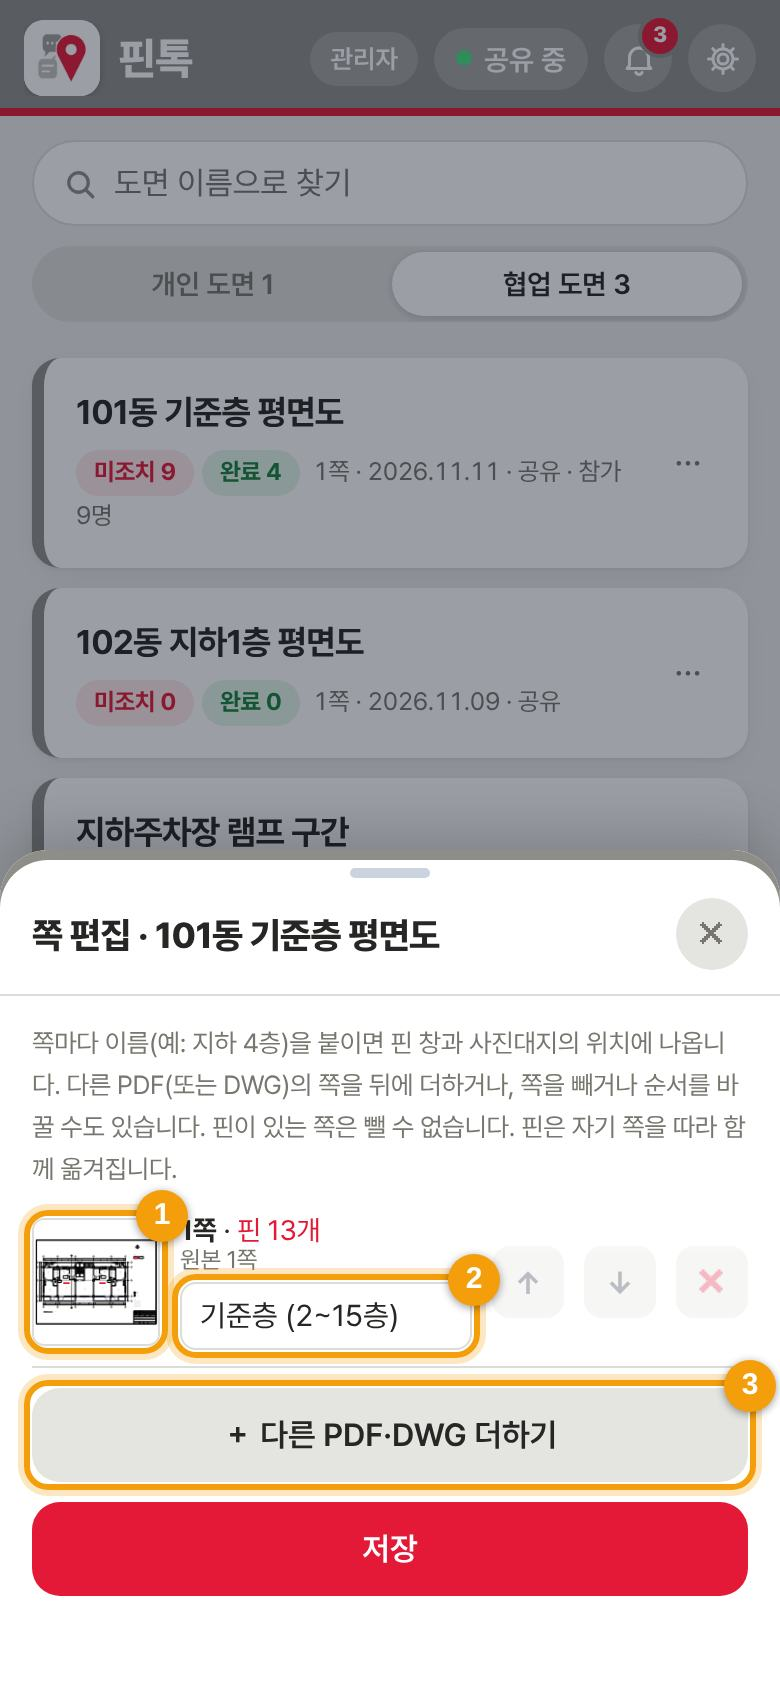
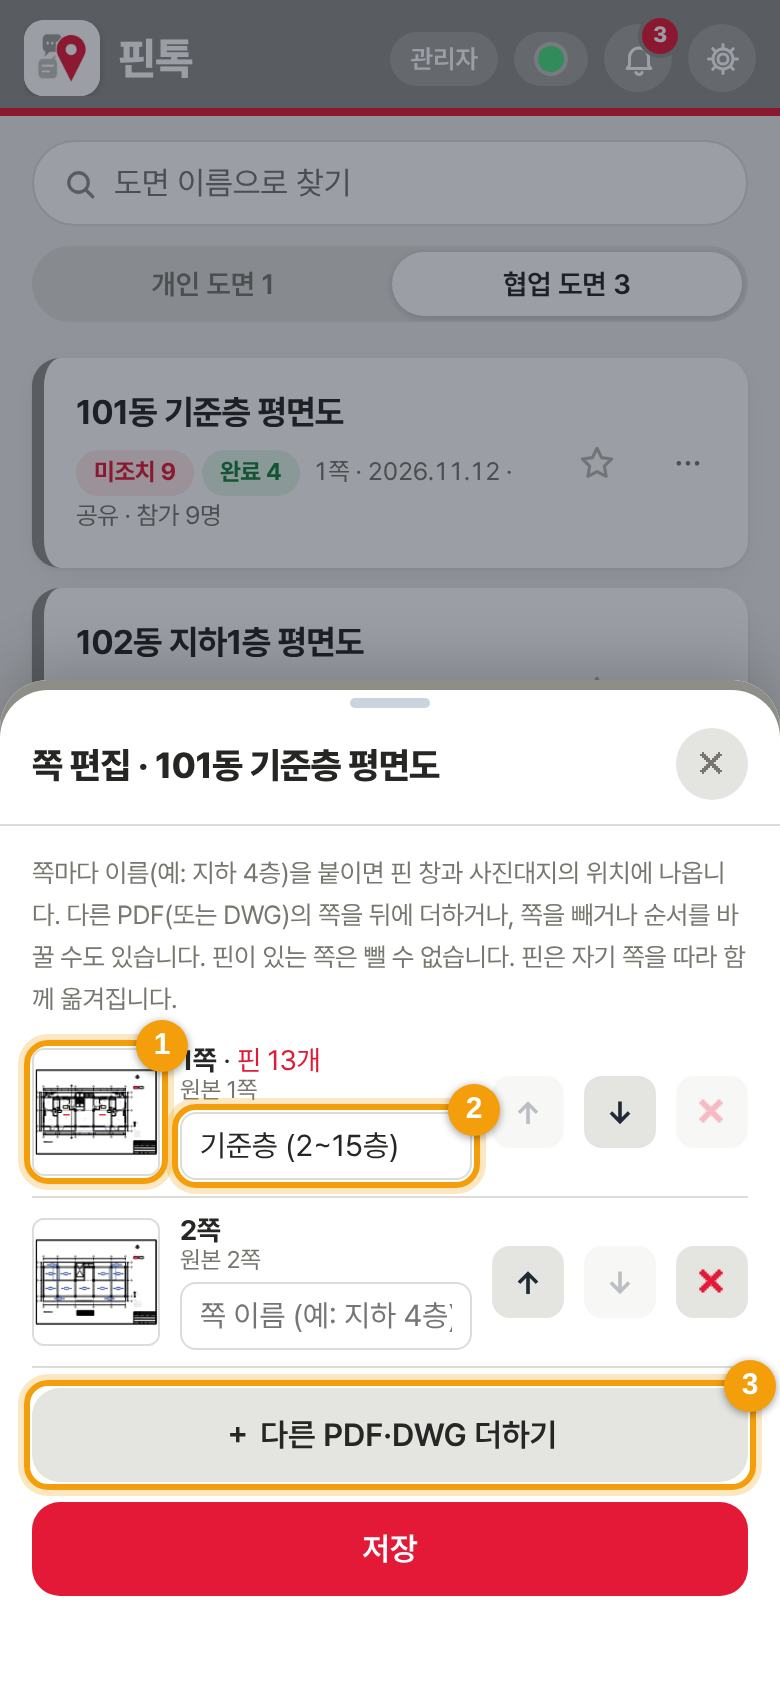
사용 가이드: 3.54~3.58 바뀐 점 반영, 화면 사진 새로 찍음
Claude-Session: https://claude.ai/code/session_01EtHbhsZCrxUT5zDHCagWW6

diff --git a/guide/index.html b/guide/index.html
@@ -132,10 +132,10 @@ footer{text-align:center;color:var(--sub);font-size:13px;padding:10px 16px 30px}
     <p><b>② 로그인</b></p>
     <ol class="marks">
       <li data-n="1"><b>이름</b>: 실명으로 넣어 주세요. 핀·댓글에 이 이름이 표시돼요.</li>
-      <li data-n="2"><b>비밀번호</b>: 4자 이상. 처음 로그인하면 넣은 비밀번호로 바로 등록돼요.</li>
+      <li data-n="2"><b>비밀번호</b>: 4자 이상. 처음 쓰는 사람은 아래 <b>회원가입</b>에서 이름·비밀번호(두 번)·팀을 넣고 가입해요.</li>
       <li data-n="3"><b>비밀번호 기억하기</b>를 켜 두면 다음부터 바로 열려요.</li>
     </ol>
-    <div class="note">휴대폰을 가로로 눕히면 아이콘과 이름이 위쪽 가운데로 가고, 입력 칸은 화면 가운데에 그대로 있어요.</div>
+    <div class="note">인터넷이 안 될 때는 맨 아래 <b>오프라인으로 들어가기</b>를 누르면 휴대폰에 저장된 개인 도면과 핀을 바로 볼 수 있어요. 휴대폰을 가로로 눕히면 아이콘·이름과 입력 칸이 화면 가운데에 함께 놓여요.</div>
   </section>
 
   <section id="s4">
@@ -143,9 +143,9 @@ footer{text-align:center;color:var(--sub);font-size:13px;padding:10px 16px 30px}
     <div class="shots"><figure><img src="img/03-home.jpg" alt="도면 목록" loading="lazy"><figcaption>로그인한 뒤 첫 화면</figcaption></figure></div>
     <ol class="marks">
       <li data-n="1"><b>검색</b>: 도면 이름 일부만 넣어도 바로 찾아요.</li>
-      <li data-n="2"><b>개인 도면 / 협업 도면</b> 탭으로 나눠 봐요(14번 참고). 카드에는 미조치·완료 핀 수, 쪽 수, 올린 날짜, 참가자가 보여요.</li>
+      <li data-n="2"><b>개인 도면 / 협업 도면</b> 탭으로 나눠 봐요(14번 참고). 카드에는 미조치·완료 핀 수, 쪽 수, 올린 날짜, 참가자가 보여요. <b>☆</b>를 누르면 즐겨찾기가 되어 목록 맨 위에 고정돼요.</li>
       <li data-n="3"><b>⋯</b>: 도면 설정을 열어요(5번).</li>
-      <li data-n="4"><b>공유 중</b>: 서버 연결 상태예요. 누르면 자동 연결 링크 보내기와 로그아웃이 있어요.</li>
+      <li data-n="4"><b>연결 점</b>: 초록이면 서버와 연결됨, 빨강이면 끊김이에요. 누르면 자동 연결 링크 보내기와 로그아웃이 있어요.</li>
       <li data-n="5"><b>🔔 알림</b>: 빨간 숫자는 아직 안 읽은 알림이에요(13번).</li>
       <li data-n="6"><b>⚙ 설정</b>(15번).</li>
       <li data-n="7"><b>＋ 도면 불러오기</b>: 카톡·파일 앱에 받은 <b>PDF</b>나 캐드 <b>DWG</b>를 골라요. DWG는 휴대폰 안에서 PDF로 바꿔 넣어요.</li>
@@ -165,7 +165,7 @@ footer{text-align:center;color:var(--sub);font-size:13px;padding:10px 16px 30px}
         <ul class="plain">
           <li><b>공유하기</b>: 핀 표시 도면과 사진대지를 PDF로 만들어 보내요.</li>
           <li><b>도면 정보</b>: 올린 사람, 팀별 핀 수, 참가자, 최근 바뀐 핀.</li>
-          <li><b>이름 바꾸기 · 쪽 편집 · 도면 복사</b>(핀·사진까지 또는 도면만).</li>
+          <li><b>이름 바꾸기 · 쪽 편집 · 도면 복사</b>(핀·사진까지 또는 도면만). 협업 도면은 <b>올린 사람과 관리자만</b> 할 수 있어요.</li>
           <li><b>개인 도면으로 바꾸기 / 협업 도면으로 바꾸기</b>.</li>
           <li><b>협업 요청 보내기</b>, <b>비밀번호 걸기</b> (협업 도면, 올린 사람·관리자).</li>
           <li><b>삭제</b>: 협업 도면은 함께 쓰는 사람 모두에게서 지워지니 조심하세요.</li>
@@ -174,7 +174,7 @@ footer{text-align:center;color:var(--sub);font-size:13px;padding:10px 16px 30px}
     <p><b>쪽 편집</b></p>
     <ol class="marks">
       <li data-n="1"><b>작은 도면을 누르면 크게</b> 볼 수 있어요. 두 손가락으로 확대하고, ‹ › 로 다른 쪽을 넘겨 봐요.</li>
-      <li data-n="2"><b>쪽 이름</b>(예: 지하 4층)을 붙이면 도면 화면과 사진대지에 이 이름이 나와요.</li>
+      <li data-n="2"><b>쪽 이름</b>(예: 지하 4층)을 붙이면 도면 화면과 사진대지에 이 이름이 나와요. PDF에 미리 쪽 이름이 들어 있으면 불러올 때 저절로 채워져요.</li>
       <li data-n="3"><b>다른 PDF·DWG 더하기</b>로 쪽을 합치고, ↑ ↓ 로 순서를, ✕ 로 쪽을 빼요. 핀이 있는 쪽은 뺄 수 없어요.</li>
     </ol>
   </section>
@@ -190,7 +190,7 @@ footer{text-align:center;color:var(--sub);font-size:13px;padding:10px 16px 30px}
     <ol class="marks">
       <li data-n="1"><b>도면 이름(ⓘ)</b>: 누르면 도면 정보가 나와요.</li>
       <li data-n="2"><b>팀 · 업체 · 공종 줄</b>: 보고 싶은 핀만 골라 봐요.</li>
-      <li data-n="3"><b>▲ 탭</b>: 위로 밀면 거르기 줄이 접히고, 아래로 밀면 펼쳐져요. 도면을 넓게 보고 싶을 때 접으세요.</li>
+      <li data-n="3"><b>▲ 탭</b>: 위로 밀거나 한 번 누르면 거르기 줄이 접히고, 아래로 밀거나 다시 누르면 펼쳐져요. 아래 작은 독에 <b>보기 핀</b>(거른 전체)과 <b>이 쪽</b> 핀 수가 나와요.</li>
       <li data-n="4"><b>목록</b>: 찍은 핀과 댓글을 한눈에(11번).</li>
       <li data-n="5"><b>핀 버튼</b>: 핀을 찍고 고정하는 가운데 빨간 버튼(7번).</li>
       <li data-n="6"><b>내보내기</b>: 사진대지 PDF나 부분 캡처(12번).</li>
@@ -235,7 +235,7 @@ footer{text-align:center;color:var(--sub);font-size:13px;padding:10px 16px 30px}
       <li data-n="1"><b>업체</b>: 현장 업체 목록에서 고르거나 <b>직접 입력</b>. 모르면 <b>미분류</b>.</li>
       <li data-n="2"><b>공종</b>: 예) 골조, 방수, 전기. 한 번 쓴 공종은 목록에서 골라요.</li>
       <li data-n="3"><b>내용</b>: 이슈·하자·전달사항을 적어요.</li>
-      <li data-n="4"><b>사진(조치 전)</b>: ＋를 눌러 찍거나 앨범에서 골라요. 여러 장 넣을 수 있어요.</li>
+      <li data-n="4"><b>사진(조치 전)</b>: <b>촬영</b> 또는 <b>앨범</b>을 눌러 넣어요. 여러 장 넣을 수 있고, 찍은 날짜별로 묶여 보여요. 컴퓨터에서는 사진을 핀 창에 끌어다 놓거나 붙여넣기 해도 돼요(아이폰 HEIC 사진도 돼요).</li>
     </ol>
     <p><b>사진 크게 보기</b>: 두 손가락으로 벌리거나 두 번 누르면 확대, 옆으로 밀면 다음 사진이에요.</p>
     <ol class="marks">
@@ -282,6 +282,7 @@ footer{text-align:center;color:var(--sub);font-size:13px;padding:10px 16px 30px}
       <li data-n="3"><b>전체 · 미조치 · 조치완료</b>로 거르기.</li>
       <li data-n="4">업체·공종, 내용, 쪽, 등록일·등록자, 사진·댓글 수가 보여요. 누르면 도면에서 그 핀으로 이동해요.</li>
     </ol>
+    <div class="note">도면이 바뀌어 쪽이 새로 생겼으면 목록 아래 <b>핀을 다른 쪽으로 옮기기</b>로 일부 또는 전체 핀을 다른 쪽으로 옮겨요. 조치완료 핀도 목록에서는 팀 색 그대로에 ✓ 표시가 붙어요.</div>
   </section>
 
   <section id="s12">
@@ -296,8 +297,8 @@ footer{text-align:center;color:var(--sub);font-size:13px;padding:10px 16px 30px}
     </ol>
     <p><b>PDF 만들기</b></p>
     <ol class="marks">
-      <li data-n="1"><b>사진대지 양식</b>: <b>내부 관리 현황</b>은 맨 앞에 전체·팀별·업체별·공종별 미조치/완료와 조치율, 핀 목록 표가 들어가요. <b>협력업체 전달</b>은 업체별로 묶고 우리 쪽 등록자·팀은 빼요.</li>
-      <li data-n="2">넣을 <b>팀 · 업체 · 공종</b>, 넣을 사진(대표 사진만 / 사진 전부)을 골라요.</li>
+      <li data-n="1"><b>사진대지 양식</b>: <b>내부 관리 현황</b>(전체 현황표와 핀 목록), <b>하자조치요청서</b>(공사팀, 업체별로 묶음), <b>균열관리사진대지</b>(품질팀, 균열 관리 대장), <b>현장순회점검 보고서</b>(안전팀, 점검 개요·결재란·지적 사항). 팀을 하나만 고르면 그 팀 양식이 저절로 골라져요.</li>
+      <li data-n="2">넣을 <b>팀 · 업체 · 공종</b>은 도면 화면에서 골라 둔 그대로 시작해요. <b>기간</b>(오늘·최근 7일·이번 달·직접)으로 그 기간에 만든 핀만 넣을 수 있고, 넣을 사진(대표 사진만 / 사진 전부)도 골라요.</li>
       <li data-n="3"><b>미리보기</b>로 먼저 확인하고, <b>PDF 만들기</b> → 파일 이름 확인 → <b>보내기</b>로 카톡 등에 바로 보내요.</li>
     </ol>
     <p>만들어지는 PDF는 이렇게 생겼어요(내부 관리 현황).</p>
@@ -312,13 +313,13 @@ footer{text-align:center;color:var(--sub);font-size:13px;padding:10px 16px 30px}
     <h2><span class="n">13</span>알림</h2>
     <div class="shots"><figure><img src="img/20-notes.jpg" alt="알림" loading="lazy"><figcaption>🔔 알림</figcaption></figure></div>
     <ol class="marks">
-      <li data-n="1">이럴 때 알림이 와요: 내 핀이 <b>조치완료</b>됐을 때, <b>협업 요청</b>을 받았을 때(수락·거절), 내 핀이나 내가 댓글 단 핀에 <b>새 댓글</b>이 달렸을 때. 알림을 누르면 그 도면·핀으로 가요. ✕ 로 하나씩, <b>모두 지우기</b>로 한 번에 지워요.</li>
+      <li data-n="1">이럴 때 알림이 와요: 내 핀이 <b>조치완료</b>됐을 때, <b>협업 요청</b>을 받았을 때(수락·거절), 내 핀이나 내가 댓글 단 핀에 <b>새 댓글</b>이 달렸을 때, 누가 핀을 <b>📣 호출</b>했을 때, 보낸 문의에 <b>답장</b>이 왔을 때. 알림을 누르면 그 도면·핀으로 가요. ✕ 로 하나씩, <b>모두 지우기</b>로 한 번에 지워요.</li>
     </ol>
   </section>
 
   <section id="s14">
     <h2><span class="n">14</span>함께 쓰기 (공유)</h2>
-    <div class="shots"><figure><img src="img/21-cloud.jpg" alt="공유 연결" loading="lazy"><figcaption>‘공유 중’을 누른 모습</figcaption></figure></div>
+    <div class="shots"><figure><img src="img/21-cloud.jpg" alt="공유 연결" loading="lazy"><figcaption>연결 점을 누른 모습</figcaption></figure></div>
     <ol class="marks">
       <li data-n="1"><b>자동 연결 링크 보내기</b>: 서버 주소와 PIN이 담긴 링크를 카톡으로 보내요. 받은 사람은 링크를 열고 이름·비밀번호만 넣으면 돼요.</li>
     </ol>
@@ -333,7 +334,8 @@ footer{text-align:center;color:var(--sub);font-size:13px;padding:10px 16px 30px}
     <ul class="plain">
       <li><b>협업 요청</b>: 도면 ⋯ → 협업 요청 보내기에서 이름을 검색해 고르면, 받은 사람은 알림에서 수락하고 비밀번호 없이 열 수 있어요.</li>
       <li><b>참가자</b>: 그 도면에 핀을 올렸거나 조치완료한 사람이 도면 정보와 목록 카드에 나와요.</li>
-      <li><b>권한</b>: 남의 핀 내용 수정·삭제·이동은 관리자만, 조치완료와 조치 후 사진은 누구나.</li>
+      <li><b>권한</b>: 남의 핀 내용 수정·삭제·이동은 관리자만, 조치완료와 조치 후 사진은 누구나. 협업 도면의 이름·쪽 편집·복사·삭제는 올린 사람과 관리자만.</li>
+      <li><b>📣 핀 호출</b>: 핀 창 댓글 아래 <b>이 핀 봐 달라고 호출하기</b>로 이름을 골라 알림을 보내요. 받은 사람이 알림을 누르면 그 핀이 바로 열려요.</li>
     </ul>
   </section>
 
@@ -348,17 +350,17 @@ footer{text-align:center;color:var(--sub);font-size:13px;padding:10px 16px 30px}
       <li data-n="1"><b>어플 사용법</b>: 연습 도면으로 따라하기, 이 가이드 열기.</li>
       <li data-n="2"><b>내 기본 팀</b>: 새 핀을 찍을 때 먼저 골라지는 팀.</li>
       <li data-n="3"><b>사진 화질</b>: 사진 한 장 기준 <b>저화질 약 0.2MB · 보통 약 0.6MB · 고화질 약 2MB</b>. 보통이면 사진대지에 충분해요.</li>
-      <li data-n="4"><b>내보내기 기본 양식</b>과 넣을 사진. 아래에 <b>휴대폰 저장 공간 보기·정리</b>, 현장 이름, <b>비밀번호 변경</b>(지금 비밀번호 확인 → 새 비밀번호 두 번)이 있어요.</li>
+      <li data-n="4"><b>내보내기 기본 양식</b>과 넣을 사진, <b>앱 문의·개선사항 보내기</b>(문의·개선 요청·오류 신고, 답장은 알림으로 와요). 아래에 <b>휴대폰 저장 공간 보기·정리</b>, 현장 이름, <b>비밀번호 변경</b>(지금 비밀번호 확인 → 새 비밀번호 두 번)이 있어요.</li>
     </ol>
     <p><b>관리자</b></p>
     <ol class="marks">
-      <li data-n="1"><b>현장 이름 바꾸기</b>(사진대지 맨 위), <b>현장 업체 목록 관리</b>, <b>사용자 관리</b>(관리자 지정·비밀번호 초기화), <b>모든 사용자에게 따라하기 알림</b>, <b>테스트 도면 만들기</b>(핀 50개 · 개인 도면).</li>
+      <li data-n="1"><b>받은 문의·개선사항</b>(읽고 답장하면 보낸 사람에게 알림), <b>화면마다 분류 라벨 보기</b>(화면 구석에 A1·C2 같은 번호가 나와 고칠 화면을 알려 주기 쉬워요)·<b>화면 분류표</b>, <b>현장 이름 바꾸기</b>(사진대지 맨 위), <b>현장 업체 목록 관리</b>, <b>사용자 관리</b>(관리자 지정·비밀번호 초기화), <b>모든 사용자에게 따라하기 알림</b>, <b>테스트 도면 만들기</b>(핀 50개 · 개인 도면).</li>
     </ol>
   </section>
 
   <section id="s16">
     <h2><span class="n">16</span>따라하기로 연습</h2>
-    <p>앱 안에서 <b>견본 도면</b>(공동주택 기준층 평면도)을 열고, 테두리가 가리키는 버튼을 직접 눌러 가며 배워요. 25단계로 핀 찍기부터 목록·내보내기·도면 관리·알림·설정까지 다뤄요. 견본 도면은 개인 도면이라 다른 사람에게 보이지 않아요.</p>
+    <p>앱 안에서 <b>견본 도면</b>(공동주택 기준층 평면도 A-301과 구조평면도 S-301, 2쪽)을 열고, 테두리가 가리키는 버튼을 직접 눌러 가며 배워요. 25단계로 핀 찍기부터 목록·내보내기·도면 관리·알림·설정까지 다뤄요. 견본 도면은 개인 도면이라 다른 사람에게 보이지 않아요.</p>
     <div class="shots"><figure><img src="img/24-tour.jpg" alt="따라하기" loading="lazy"><figcaption>따라하기 중인 모습</figcaption></figure></div>
     <p>설정 → <b>▶ 연습 도면으로 따라하기</b>로 언제든 다시 시작해요. 중간에 <b>‹ 이전</b>으로 돌아가거나 <b>그만하기</b>로 끝낼 수 있어요.</p>
     <div class="cta"><a href="../?tour=1">▶ 지금 따라하기 시작</a></div>
@@ -368,7 +370,7 @@ footer{text-align:center;color:var(--sub);font-size:13px;padding:10px 16px 30px}
     <h2><span class="n">17</span>자주 묻는 질문</h2>
     <dl class="faq">
       <dt>지하층처럼 신호가 안 터지는 곳에서도 되나요?</dt>
-      <dd>네. 한 번 열어 본 도면은 휴대폰에 저장돼 있어서 열리고, 그때 찍은 핀과 사진은 휴대폰에 보관돼요. 위쪽에 ‘오프라인 · 휴대폰에 보관’이 보이고, 신호가 잡히면 자동으로 올라가요.</dd>
+      <dd>네. 한 번 열어 본 도면은 휴대폰에 저장돼 있어서 열리고, 그때 찍은 핀과 사진은 휴대폰에 보관돼요. 위쪽 점이 빨간색으로 바뀌고, 신호가 잡히면 자동으로 올라가요. 로그인 화면에서는 <b>오프라인으로 들어가기</b>로 바로 들어갈 수 있어요.</dd>
       <dt>핀 번호가 바뀌었어요.</dt>
       <dd>두 사람이 동시에 같은 팀 번호를 쓰면 나중에 올린 쪽이 다음 빈 번호로 바뀌어요. 지운 번호는 다음 핀이 다시 써요.</dd>
       <dt>사진이 많아 휴대폰 용량이 걱정돼요.</dt>
@@ -380,6 +382,6 @@ footer{text-align:center;color:var(--sub);font-size:13px;padding:10px 16px 30px}
     </dl>
   </section>
 </main>
-<footer>핀톡 · 앱 버전 3.53 기준 (2026.11)</footer>
+<footer>핀톡 · 앱 버전 3.58 기준 (2026.11)</footer>
 </body>
 </html>
